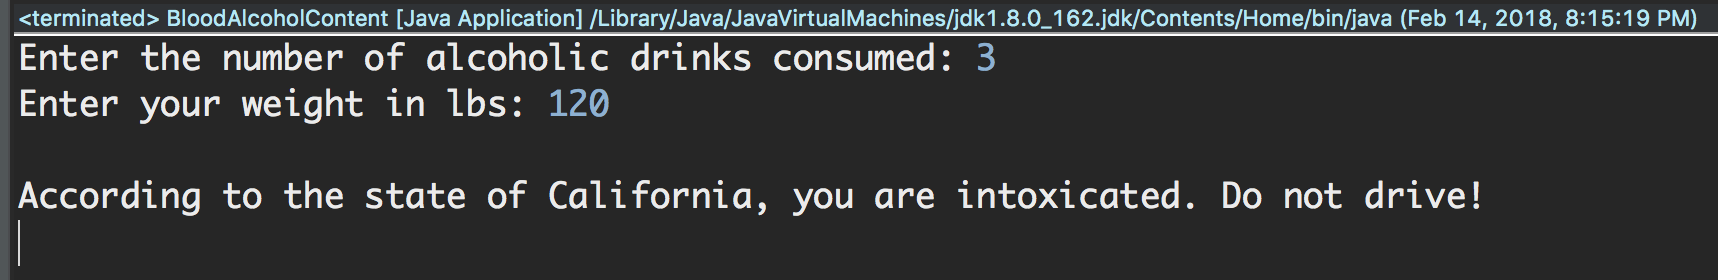
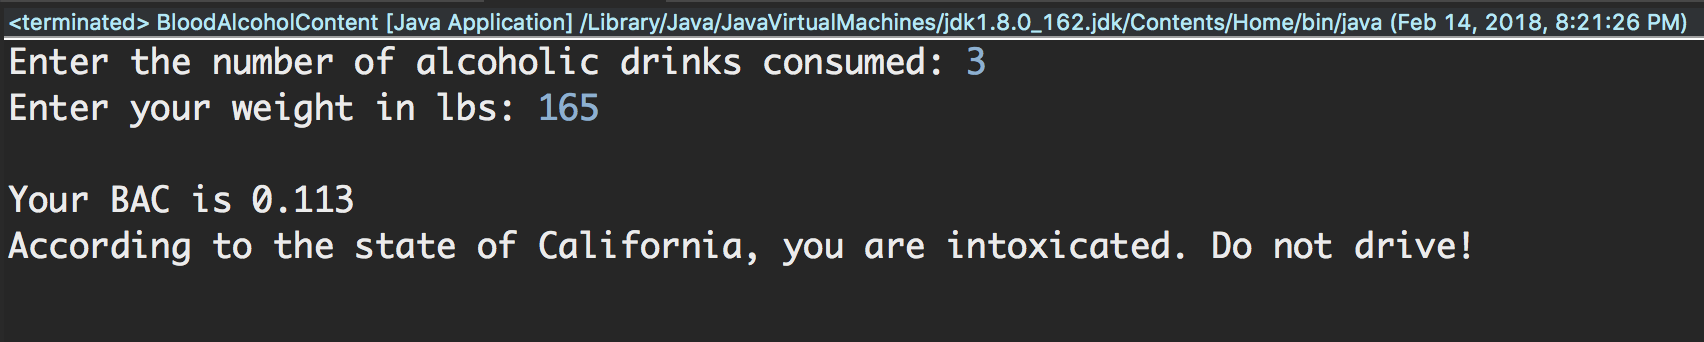
Added DecimalFormat

Changed region(s): [[0.0, 0.0, 1.0, 1.0]]

diff --git a/IC05_BloodAlcoholContent/src/BloodAlcoholContent.java b/IC05_BloodAlcoholContent/src/BloodAlcoholContent.java
@@ -6,6 +6,7 @@
 
     IC05_BloodAlcoholContent
  */
+import java.text.DecimalFormat;
 import java.util.Scanner;
 
 public class BloodAlcoholContent {
@@ -15,6 +16,8 @@ public class BloodAlcoholContent {
 	public static void main(String[] args) {
 		// Variables
 		double drinks, weight, BAC;
+		DecimalFormat formatter = new DecimalFormat("0.000");
+		
 		Scanner consoleScanner = new Scanner(System.in);
 
 		System.out.print("Enter the number of alcoholic drinks consumed: ");
@@ -31,7 +34,8 @@ public class BloodAlcoholContent {
 
 		// Display
 		if (BAC > BAC_LIMIT) {
-			System.out.println("\nAccording to the state of California, you are intoxicated. Do not drive!");
+			System.out.println("\nYour BAC is " + formatter.format(BAC));
+			System.out.println("According to the state of California, you are intoxicated. Do not drive!");
 		} else {
 			System.out.println("\nYou can drive");
 		}
